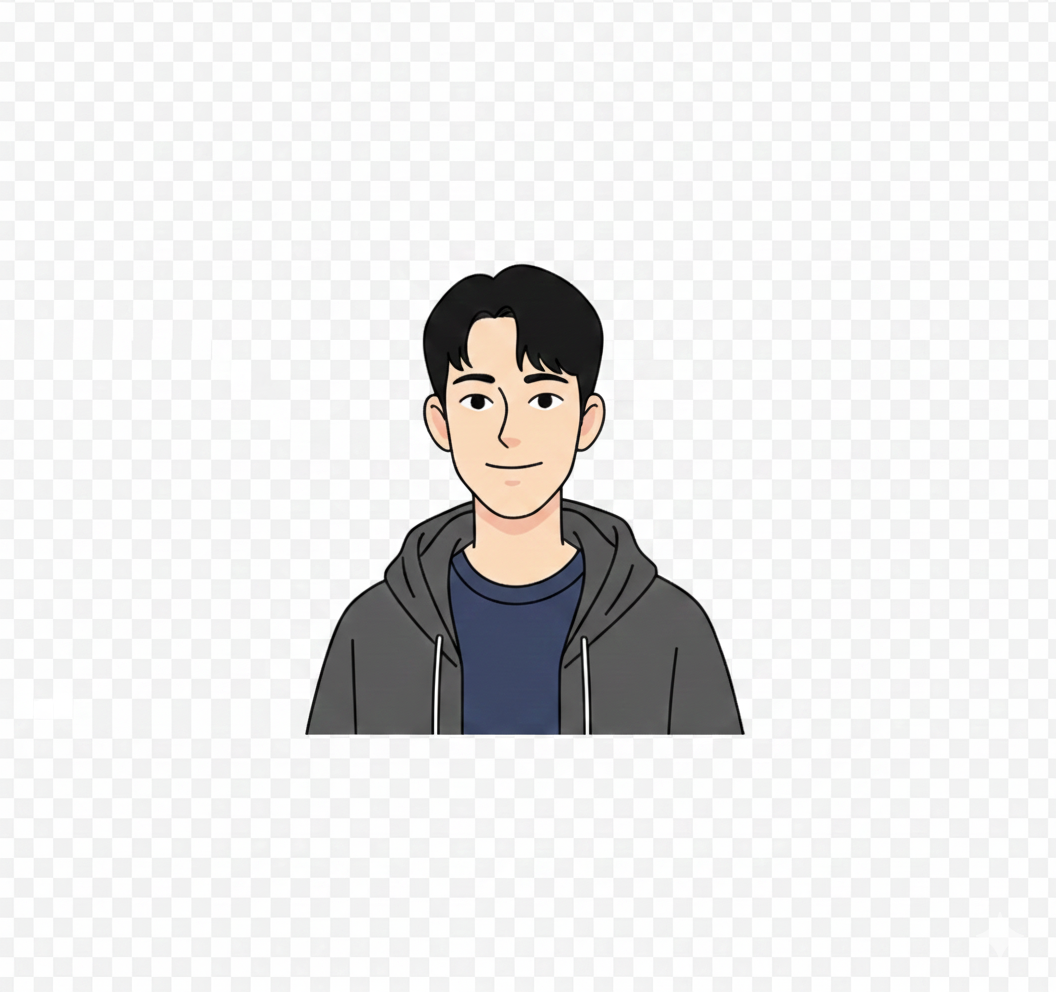
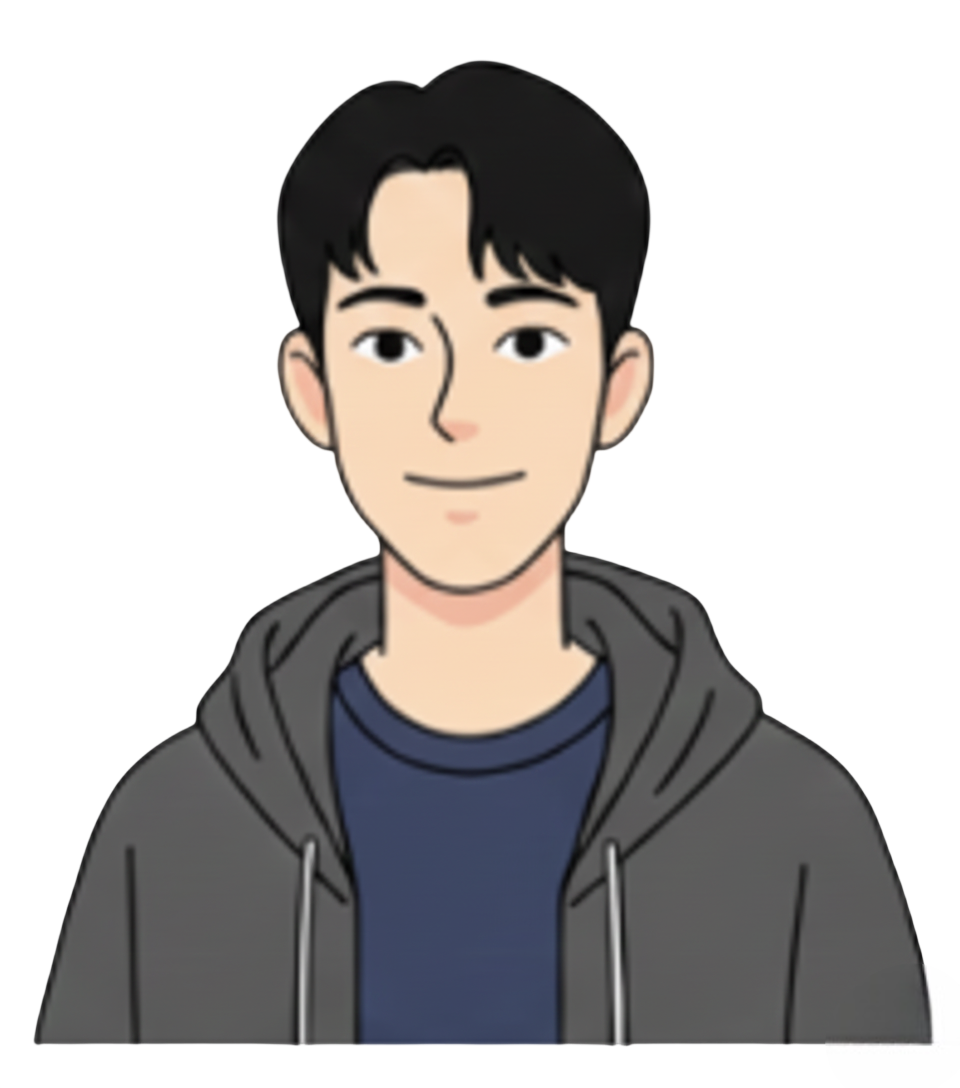
refactor: complete hero-section

diff --git a/src/components/hero-section.tsx b/src/components/hero-section.tsx
@@ -87,11 +87,11 @@ export function HeroSection() {
         </div>
 
         <div className="flex justify-center md:justify-end">
-          <div className="relative w-full max-w-md aspect-square bg-[#FDB927] border-4 border-black rounded-3xl overflow-hidden shadow-[8px_8px_0px_0px_rgba(0,0,0,1)]">
+          <div className="relative w-full max-w-md aspect-square bg-[#FFFF] border-4 border-black rounded-3xl overflow-hidden shadow-[8px_8px_0px_0px_rgba(0,0,0,1)]">
             <img
               src="/idpic.png"
               alt="Illustrated character avatar"
-              className="object-contain w-full h-full"
+              className="object-cover w-full h-full"
             />
           </div>
         </div>
